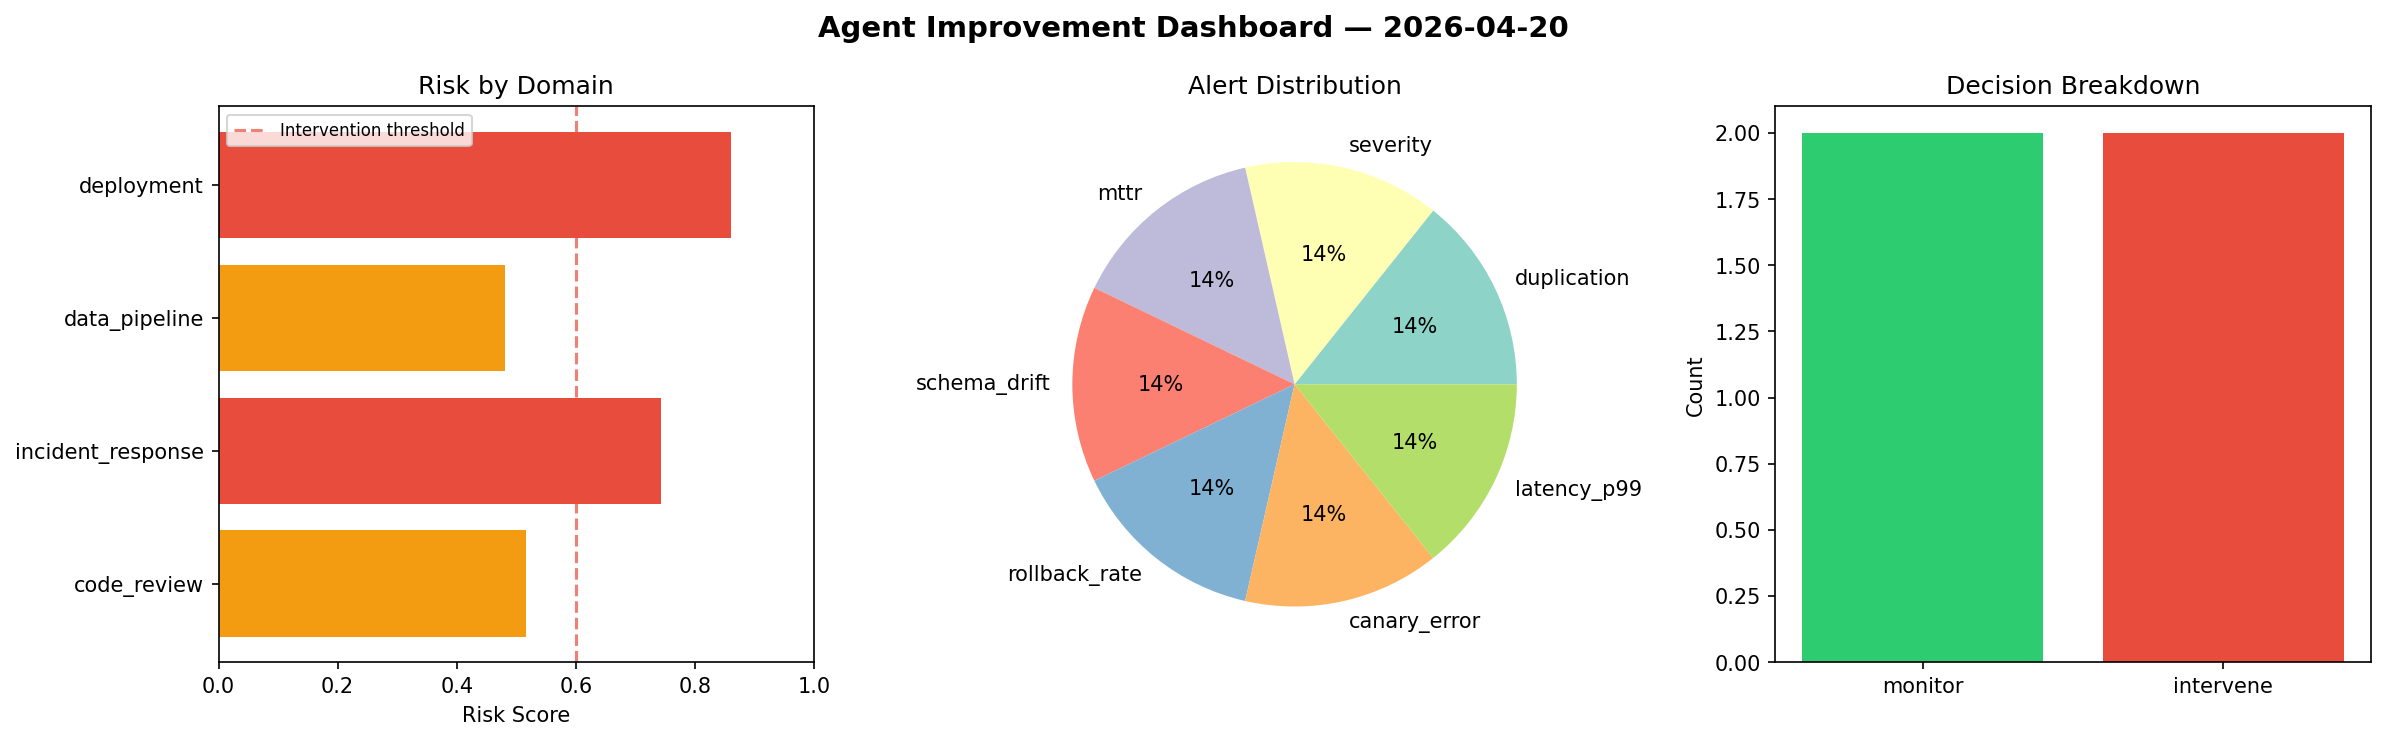
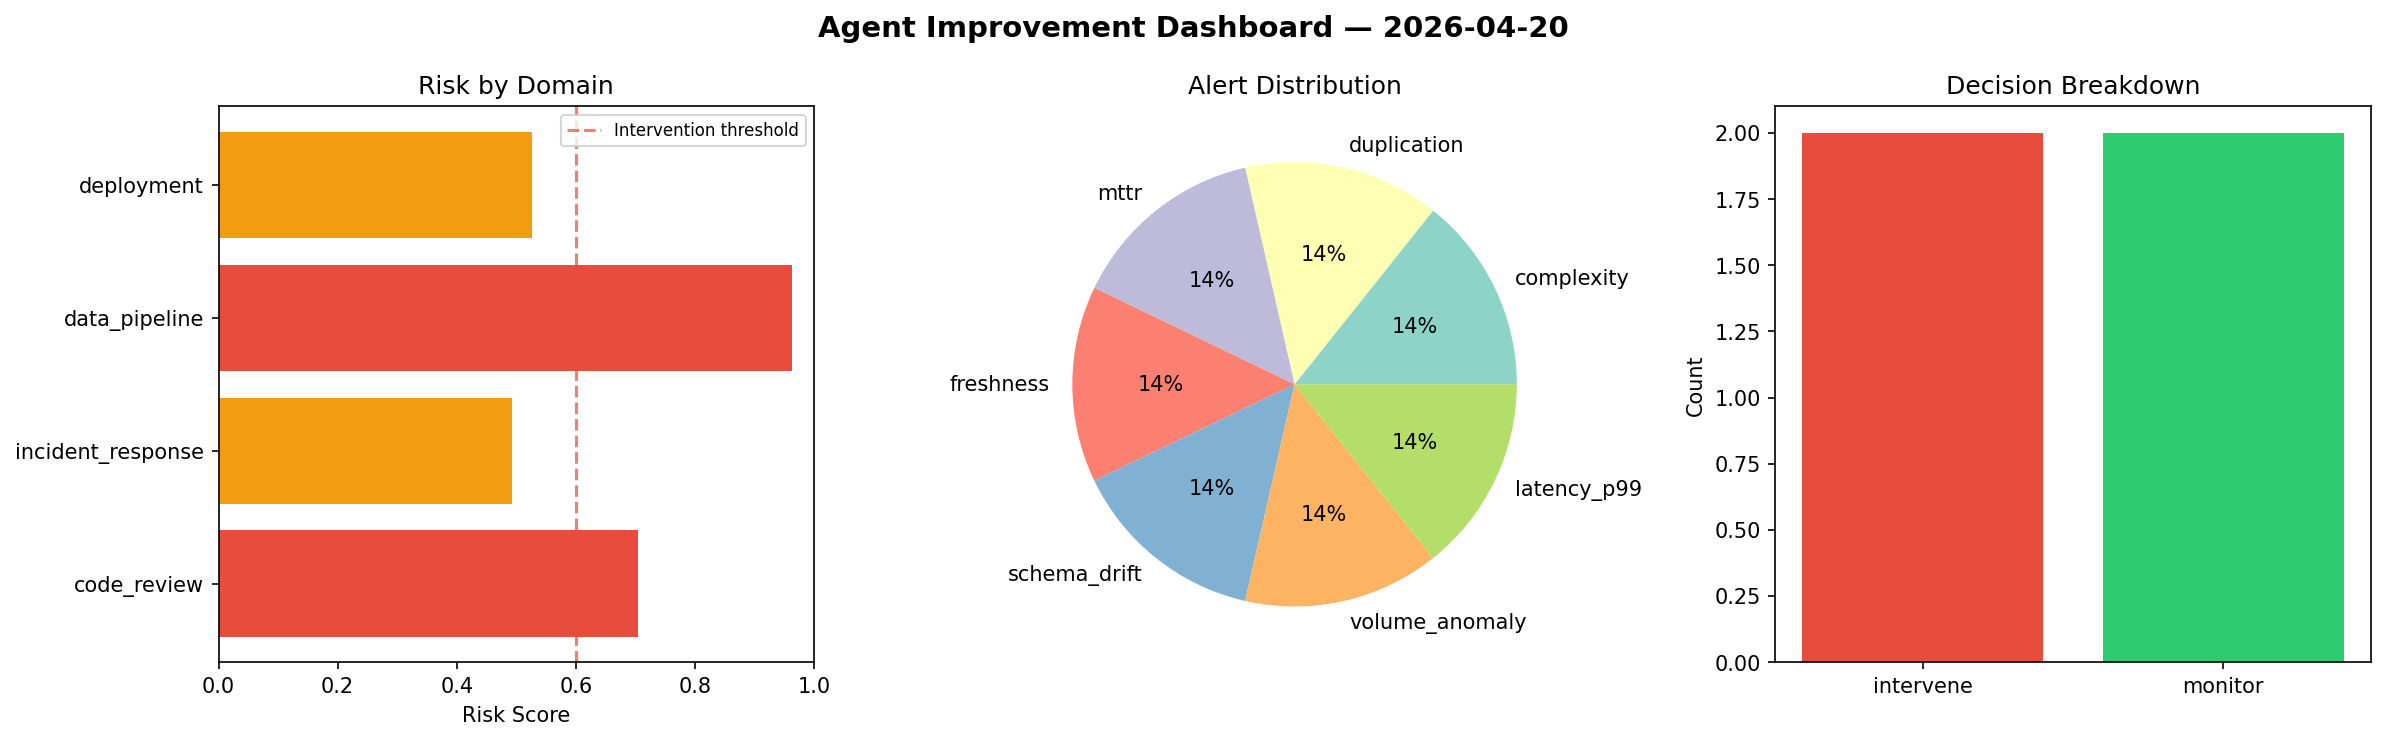
agent-improvement: daily cycle 2026-04-20T10:09

diff --git a/logs/2026-04-20.md b/logs/2026-04-20.md
@@ -1,6 +1,6 @@
 # Agent Improvement Report — 2026-04-20
 
-**Cycle ID:** `94fbce50` | **Avg Risk:** 0.6501 | **Interventions:** 2/4
+**Cycle ID:** `381ec66c` | **Avg Risk:** 0.6717 | **Interventions:** 2/4
 
 ![Dashboard](2026-04-20_dashboard.png)
 
@@ -10,18 +10,18 @@
 
 | Domain | Risk Score | Decision | Alerts |
 |--------|-----------|----------|--------|
-| code_review | 0.5159 | monitor | duplication |
-| incident_response | 0.7429 | intervene | severity, mttr |
-| data_pipeline | 0.4805 | monitor | schema_drift |
-| deployment | 0.8611 | intervene | rollback_rate, canary_error, latency_p99 |
+| code_review | 0.7047 | intervene | complexity, duplication |
+| incident_response | 0.4922 | monitor | mttr |
+| data_pipeline | 0.964 | intervene | freshness, schema_drift, volume_anomaly |
+| deployment | 0.526 | monitor | latency_p99 |
 
 ## Delta vs Yesterday
 
 | Domain | Today | Yesterday | Change |
 |--------|-------|-----------|--------|
-| code_review | 0.5159 | 0.2312 | 📈 123.1% |
-| incident_response | 0.7429 | 0.4425 | 📈 67.9% |
-| data_pipeline | 0.4805 | 0.5411 | 📉 -11.2% |
-| deployment | 0.8611 | 0.5393 | 📈 59.7% |
+| code_review | 0.7047 | 0.2312 | 📈 204.8% |
+| incident_response | 0.4922 | 0.4425 | 📈 11.2% |
+| data_pipeline | 0.964 | 0.5411 | 📈 78.2% |
+| deployment | 0.526 | 0.5393 | 📉 -2.5% |
 
-**Refinement:** `{'adjustment': 'tighten_thresholds', 'trend': 'degrading', 'window': 4}`
+**Refinement:** `{'adjustment': 'maintain', 'trend': 'improving', 'window': 4}`
